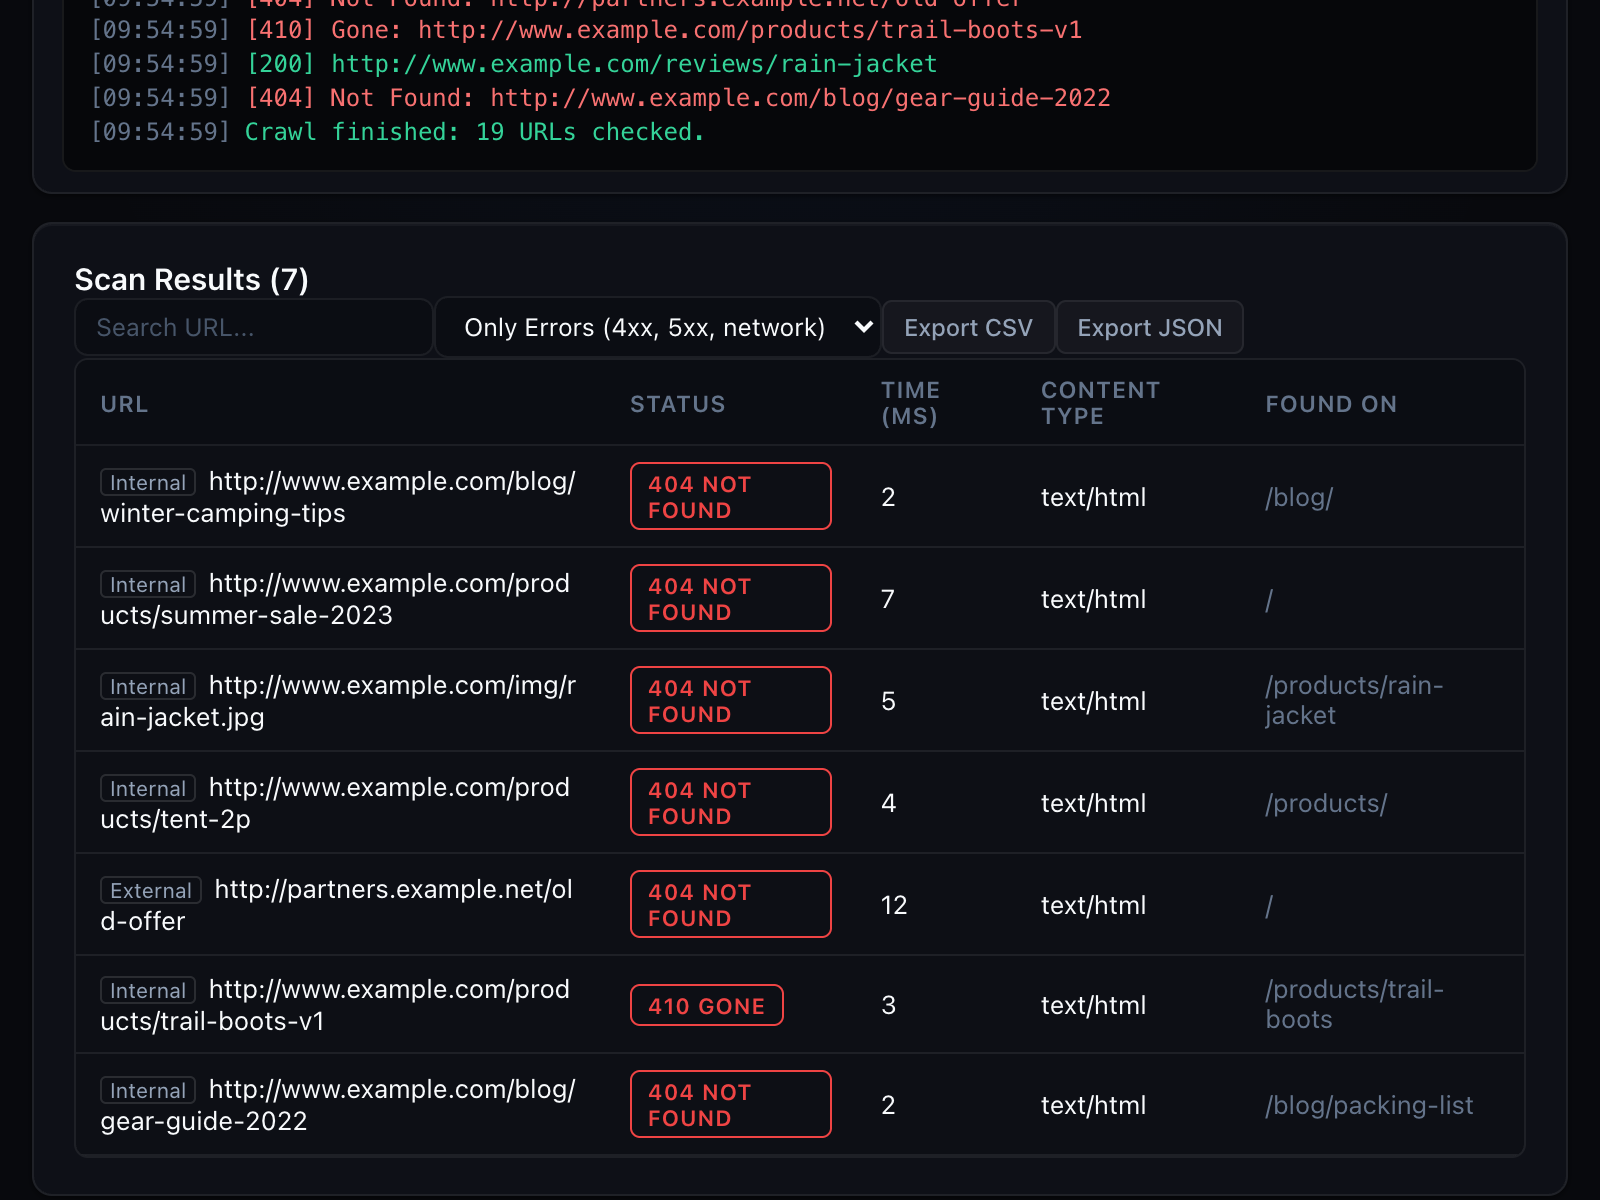
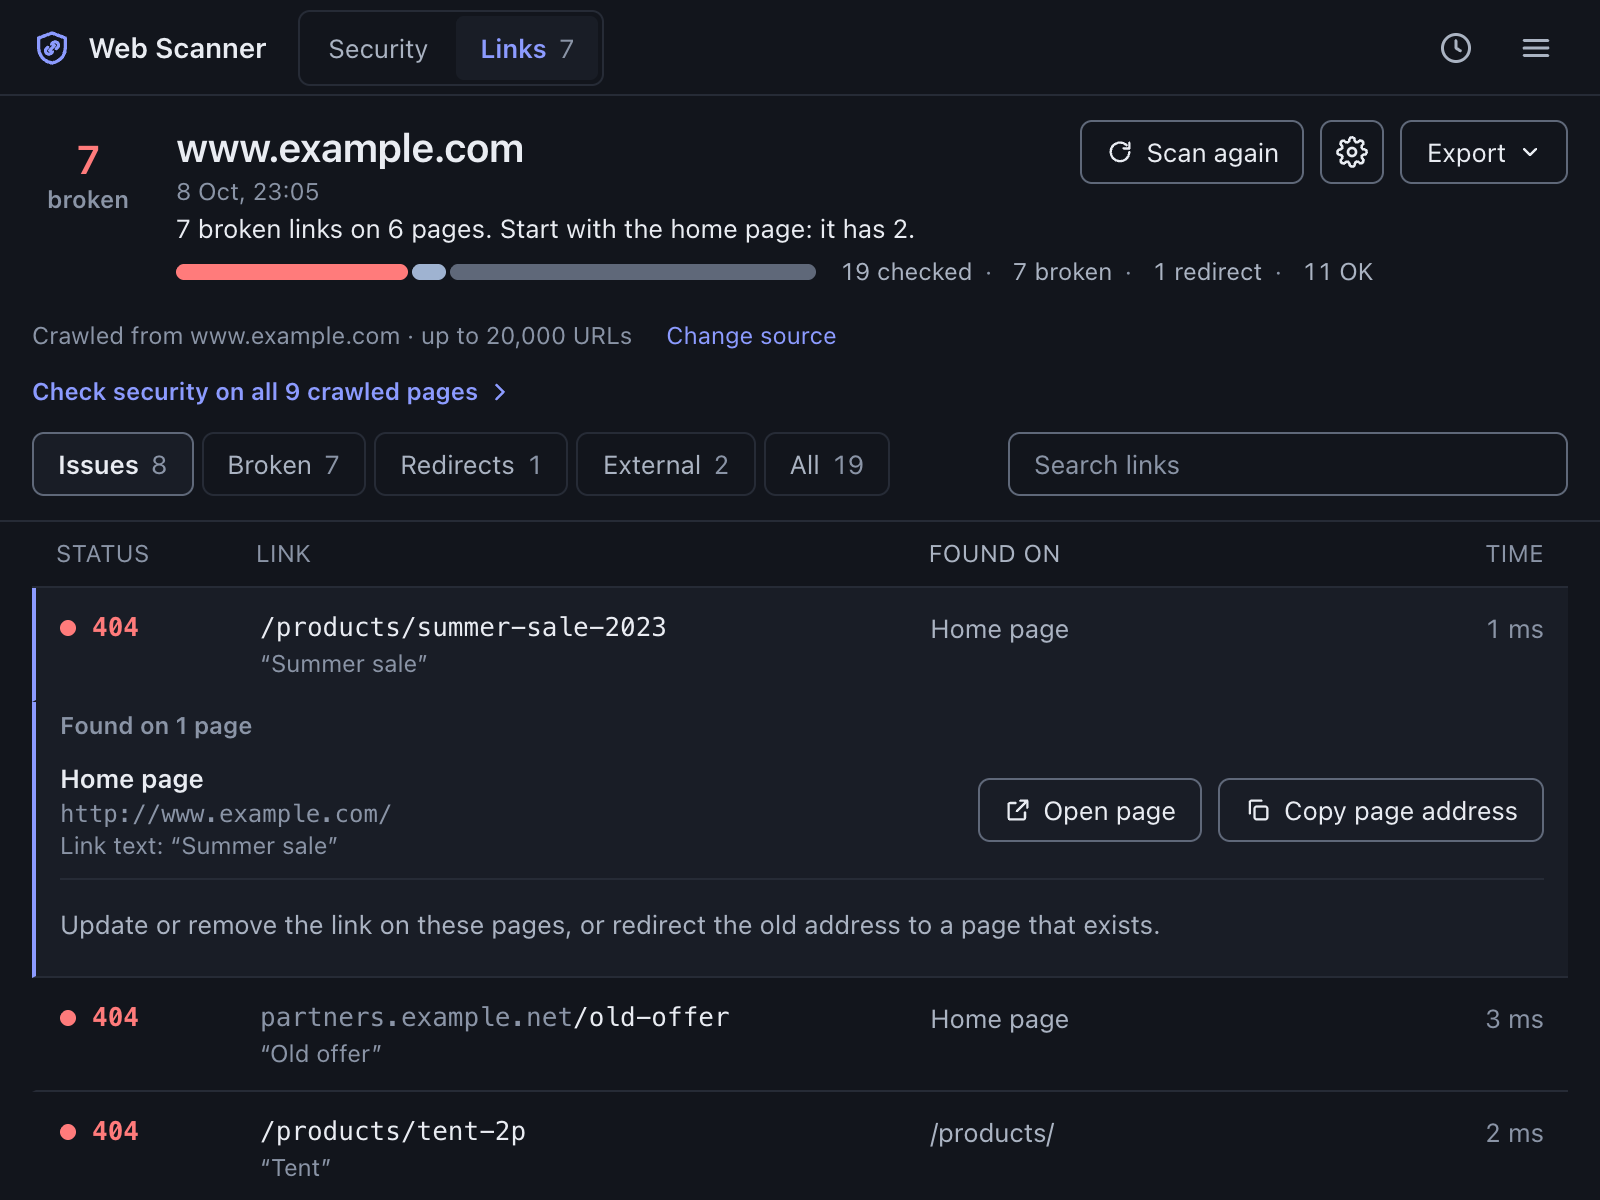
Site for 1.3: features, pricing and images, Vercel deploy
Free/Pro lists match 1.3 (free: grade and issue list; Pro: fixes,
site-wide check, client report, history, 20,000 URLs). Hero and og
images from the 1.3 store captures. og:image on webscanner.onderbakir.com.

diff --git a/index.html b/index.html
@@ -7,7 +7,7 @@
   <meta name="description" content="Chrome extension that finds broken links across your site and checks security headers, cookies, CSP, SPF/DMARC and exposed files. Passive, runs in your browser.">
   <meta property="og:title" content="Web Scanner: Dead Links &amp; Security">
   <meta property="og:description" content="Find broken links and common security misconfigurations from your browser.">
-  <meta property="og:image" content="https://onder007.github.io/web-scanner/og.png">
+  <meta property="og:image" content="https://webscanner.onderbakir.com/og.png">
   <link rel="icon" href="icon.png">
   <link rel="stylesheet" href="style.css">
 </head>
@@ -28,19 +28,19 @@
         </div>
         <p class="note">Passive checks only. Nothing you scan is sent to us.</p>
       </div>
-      <img class="shot" src="hero.png" alt="Web Scanner results table listing broken links and the page each was found on" width="1600" height="1200">
+      <img class="shot" src="hero.png" alt="Web Scanner link report: 7 broken links, the first one open with the page it is on and its link text" width="1600" height="1200">
     </div>
 
     <section id="features">
       <h2>What it checks</h2>
       <p class="muted">Two scanners in one panel, built for people who maintain websites.</p>
       <div class="grid">
-        <div class="card"><h3>Dead links</h3><p>Crawls the pages of your site, checks every link once, follows redirects and sorts results into broken, redirected, blocked and network errors.</p></div>
-        <div class="card"><h3>Where it broke</h3><p>Every broken link shows the page it was found on, so you know exactly what to edit.</p></div>
-        <div class="card"><h3>Security headers</h3><p>HSTS, Content-Security-Policy, X-Frame-Options, Referrer-Policy and more, with what each missing header means.</p></div>
+        <div class="card"><h3>Dead links</h3><p>Crawls the pages of your site and checks every internal and external link once. Redirects show their full chain, hop by hop.</p></div>
+        <div class="card"><h3>Where it broke</h3><p>Every broken link lists each page it is on and its link text. Open the page and the link is outlined for you.</p></div>
+        <div class="card"><h3>A security grade</h3><p>HTTPS, security headers, cookies and exposed files, graded and sorted into what to fix first and smaller risks, in plain words.</p></div>
         <div class="card"><h3>Cookies and storage</h3><p>Missing Secure, HttpOnly and SameSite flags, and sensitive-looking keys in browser storage.</p></div>
         <div class="card"><h3>Email spoofing</h3><p>SPF and DMARC records of your domain, with the policy they actually enforce.</p></div>
-        <div class="card"><h3>Fix snippets</h3><p>Ready-to-paste configuration for Nginx, Apache, Cloudflare, Next.js and Vite for each finding.</p></div>
+        <div class="card"><h3>The fix for your server</h3><p>Evidence, why it matters and ready-to-paste config for Nginx, Apache, Cloudflare, Next.js, Express and more, picked from what your site runs.</p></div>
       </div>
     </section>
 
@@ -53,9 +53,8 @@
           <div class="price">$0</div>
           <ul>
             <li>Link scans up to <strong>150 URLs</strong> each</li>
-            <li>Full results table with filters</li>
-            <li>Security scan with every finding</li>
-            <li>Fix snippet for the top finding</li>
+            <li>Every broken link and where it is</li>
+            <li>Security grade and the full issue list</li>
           </ul>
           <a class="btn btn-ghost" href="https://chromewebstore.google.com/search/web%20scanner%20dead%20links">Add to Chrome</a>
         </div>
@@ -63,11 +62,11 @@
           <h3>Pro Lifetime</h3>
           <div class="price">$9.99 <small>one-time</small></div>
           <ul>
-            <li><strong>Unlimited</strong> URLs per scan</li>
-            <li>All fix snippets</li>
-            <li>CSV, JSON and printable reports</li>
-            <li>Network Inspector</li>
-            <li>Scan history</li>
+            <li>Link scans up to <strong>20,000 URLs</strong>, sitemap.xml and URL lists</li>
+            <li>Evidence and the fix for every finding</li>
+            <li>Security check of every crawled page</li>
+            <li>Client report with your logo, send to developer, CSV and JSON</li>
+            <li>History with rescan comparison, Network Inspector</li>
           </ul>
           <a class="btn btn-primary" href="https://onder.lemonsqueezy.com/checkout/buy/c3a944ae-1513-488a-b147-f457c72baefb">Buy Pro</a>
         </div>
@@ -78,7 +77,7 @@
       <h2>Questions</h2>
       <details><summary>Does it attack or stress the sites I scan?</summary><p>No. It sends ordinary requests, the same a browser sends when you open a page, with a configurable concurrency limit and delay. It never sends exploit payloads.</p></details>
       <details><summary>What happens to my data?</summary><p>Results stay in your browser. The extension talks to the sites you scan, to Cloudflare's public DNS for SPF and DMARC lookups, and to Lemon Squeezy for license checks. Details are in the <a href="privacy.html">privacy policy</a>.</p></details>
-      <details><summary>How do I activate Pro?</summary><p>After checkout you receive a license key by email. Open the extension, click Pro and paste the key. One license works on up to 5 browsers.</p></details>
+      <details><summary>How do I activate Pro?</summary><p>After checkout you receive a license key by email. Open the extension, choose Get Pro, then I have a key, and paste it. One license works on up to 5 browsers.</p></details>
       <details><summary>Can I get a refund?</summary><p>Yes, within 14 days of purchase. Reply to your receipt email.</p></details>
     </section>
   </main>
